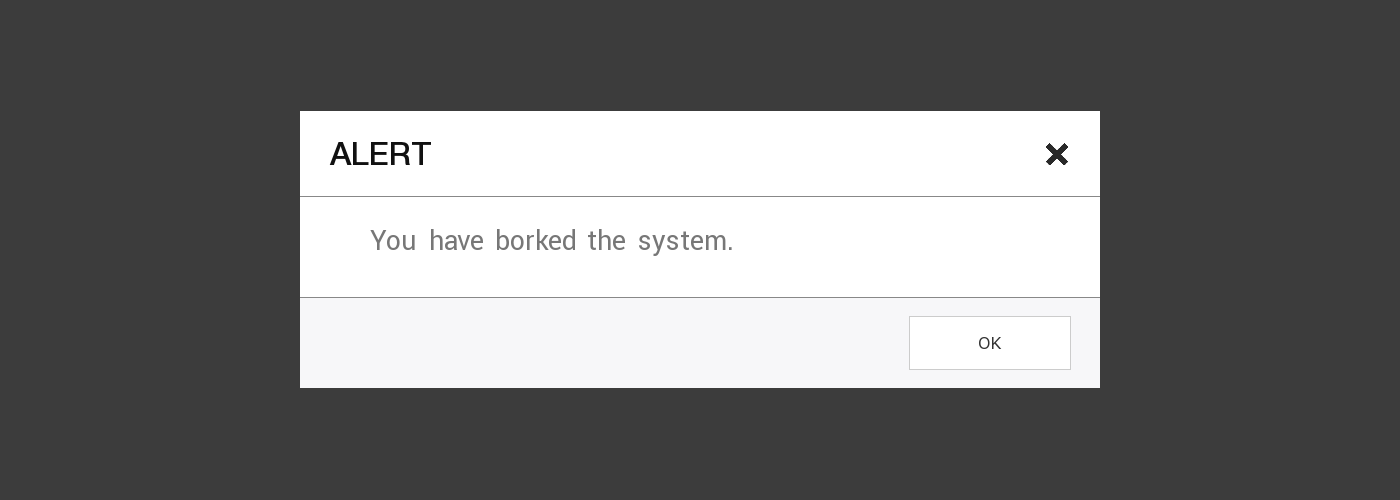
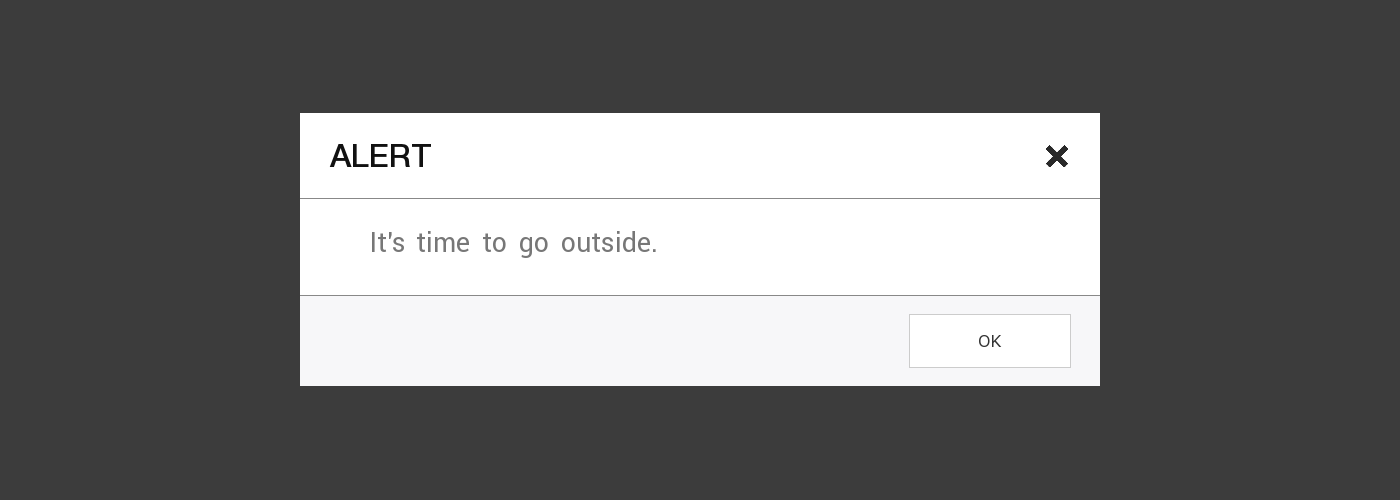
minor readme updates

diff --git a/example-Alert/src/ofApp.cpp b/example-Alert/src/ofApp.cpp
@@ -26,7 +26,7 @@ void ofApp::draw()
 
 void ofApp::onButtonEvent(ofxDatGuiButtonEvent e)
 {
-    if (e.target == mShowAlert) mAlert->alert("BANG!");
+    if (e.target == mShowAlert) mAlert->alert("It's time to go outside.");
 }
 
 void ofApp::onModalEvent(ofxModalEvent e)

diff --git a/readme.md b/readme.md
@@ -17,7 +17,7 @@ Once you've created a project copy the **ofxbraitsch** directory in the root of 
 Displaying an Alert is as simple as:
 
 	ofxModalAlert myAlert;
-	myAlert.alert("you have borked the system.");
+	myAlert.alert("It's time to go outside.");
 
 ![ofxModalConfirm](./readme-imgs/alert-window.png)
 
